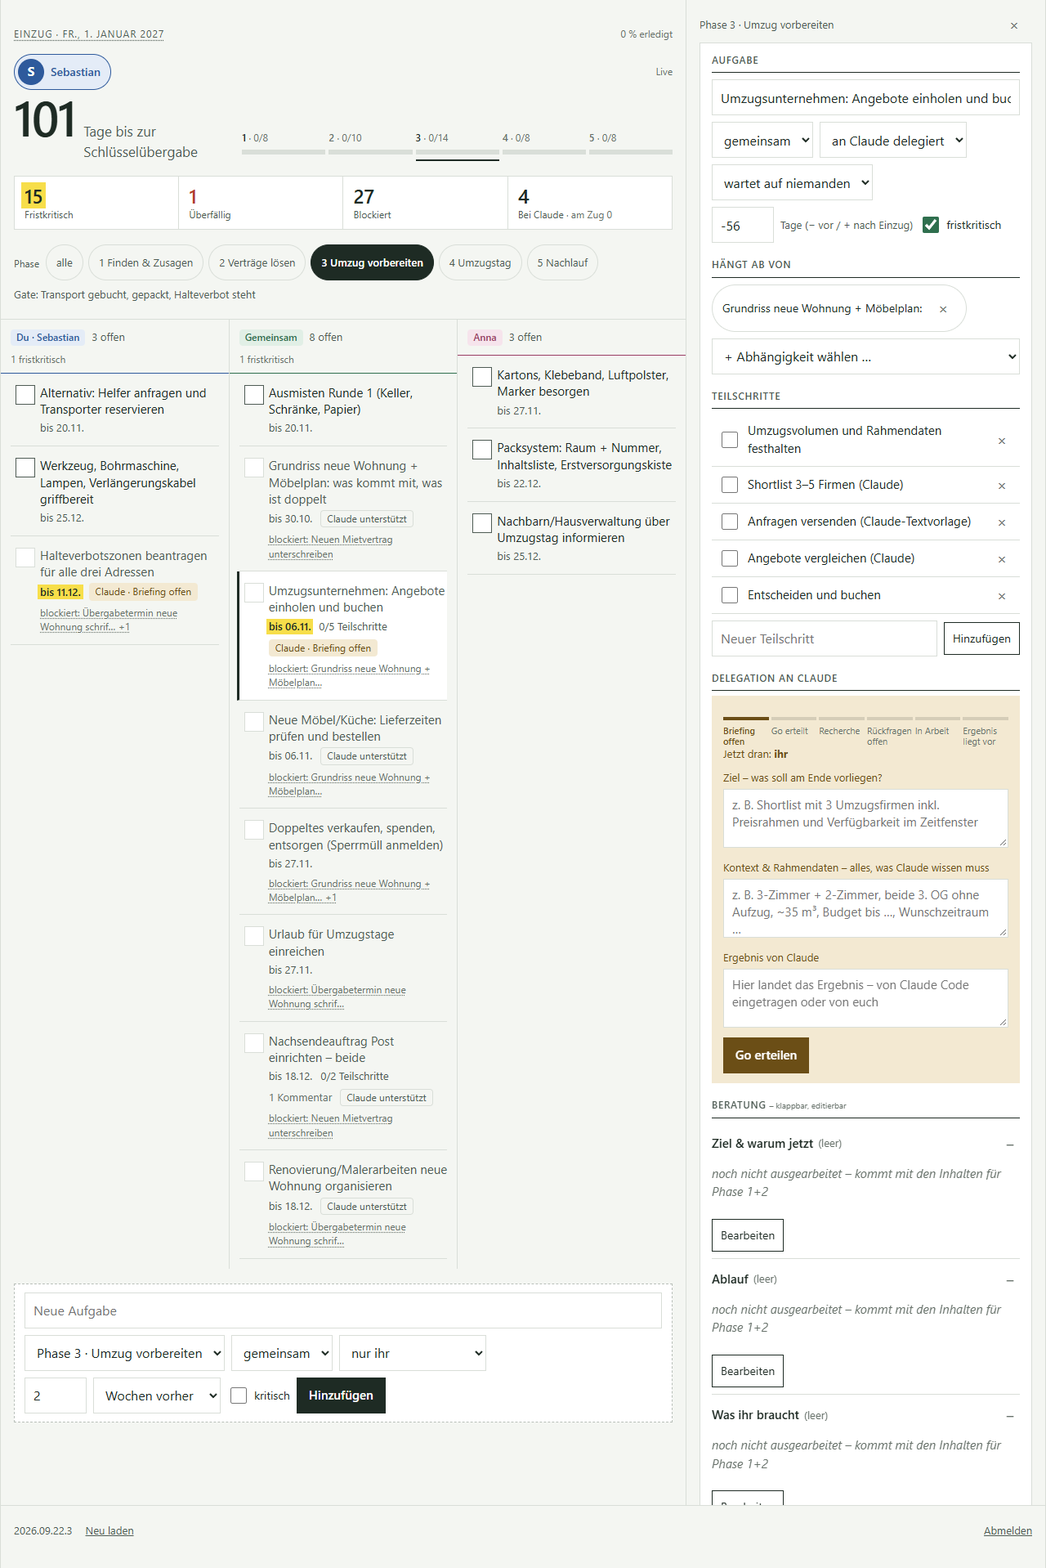
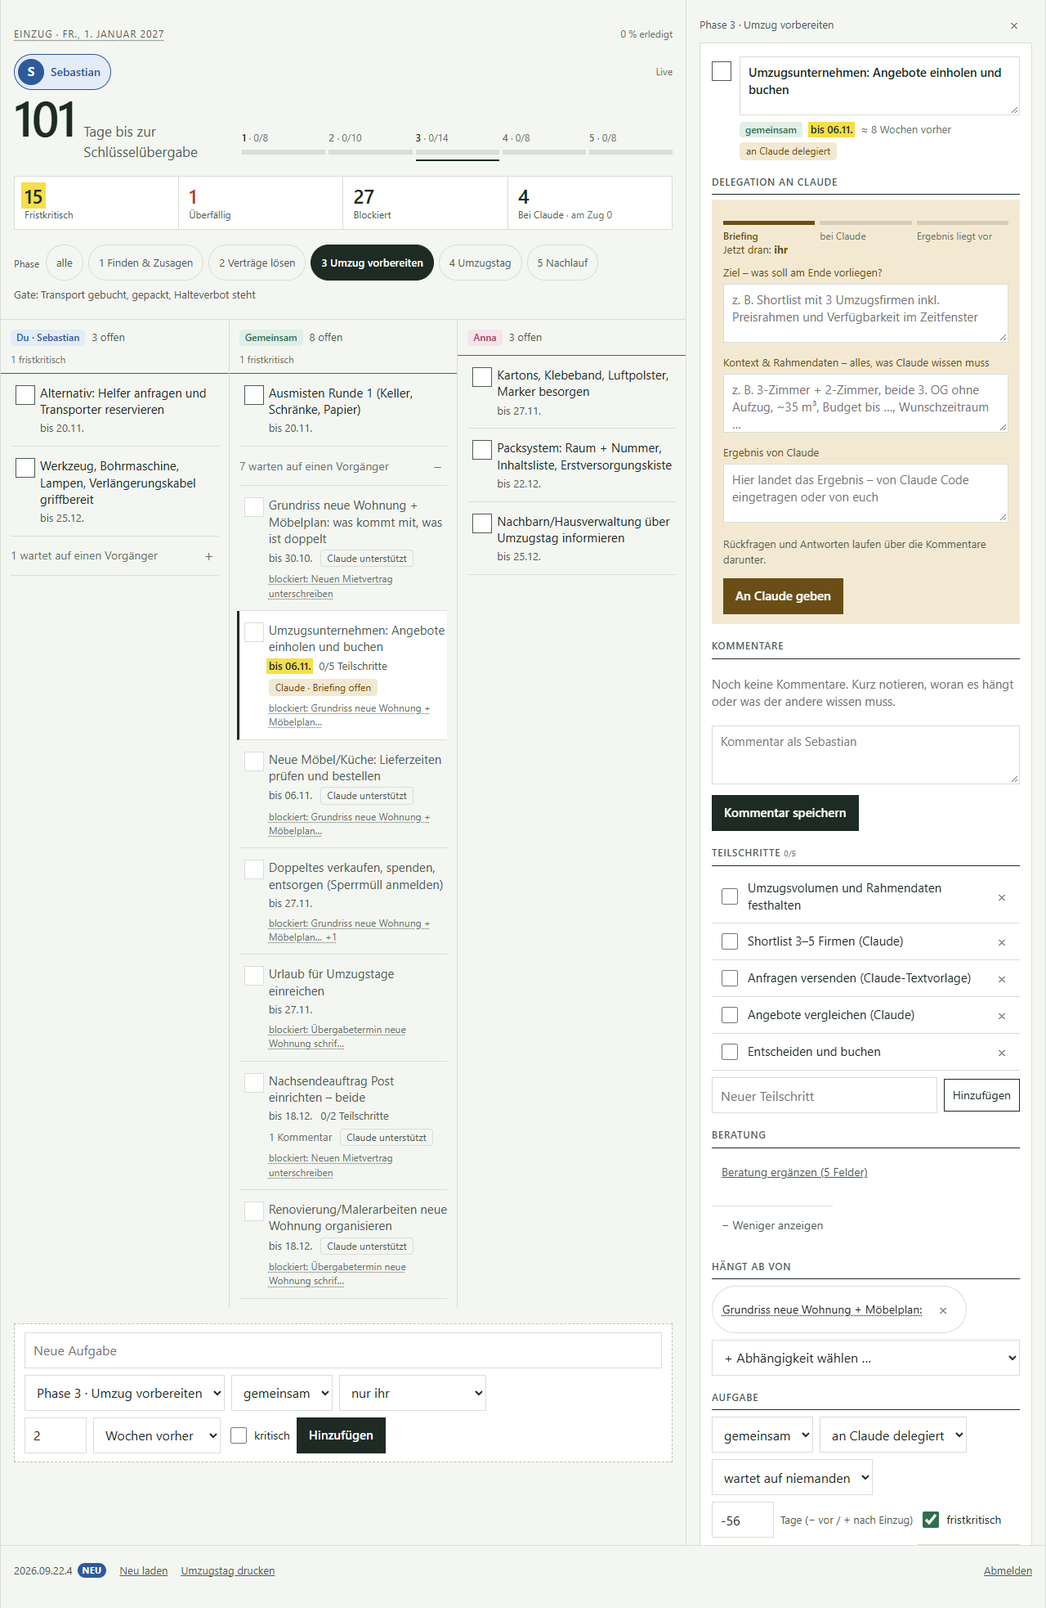
docs: 009 deviation list, screenshots and status

diff --git a/docs/changes/009-abweichungen.md b/docs/changes/009-abweichungen.md
@@ -1,78 +1,100 @@
-# Änderungsauftrag 009 – Abweichungsliste (Stand nach Commit 2)
+# Änderungsauftrag 009 – Abweichungsliste
 
 Stand: 22.09.2026 · Branch `feature/personen-layout` · Quelle: `docs/changes/009-personen-layout.md`, Design `design/handoff/2026-09-22-b/` (nur Variante B, „1b Personen zuerst")
-Screenshots (Vollseite): `docs/changes/009-screenshots/` – `ich-380`, `ich-1280`, `besuch-380`, `besuch-1280`, `akte-leicht-380`, `akte-leicht-1280`, `akte-voll-380`, `akte-voll-1280`
+Screenshots (Vollseite): `docs/changes/009-screenshots/` – `ich-380/1280`, `besuch-380/1280`, `akte-leicht-380/1280`, `akte-voll-380/1280`, `bei-claude-1280`, `umzugstag-druck-380`, `offline-380`
 
-Commit 1 = Layout, Commit 2 = „Seit deinem letzten Besuch". **Noch nicht gebaut:** Akte in zwei Gewichtsklassen (Auftrag Punkt 3) und Delegation auf drei Zustände (Punkt 4) folgen in Commit 3, Umzugstag-Modus (Punkt 5) in Commit 4. Die beiden Akte-Screenshots zeigen deshalb den **Ist-Stand vor** dem Umbau – sie sind der Vergleichspunkt, nicht das Ergebnis.
+Vier Commits: (1) Layout, (2) „Seit deinem letzten Besuch", (3) Akte in zwei Gewichtsklassen + Delegation auf drei Zustände, (4) Umzugstag-Modus. Dazwischen der Review-Stopp; die dort getroffenen Entscheidungen stehen in Abschnitt 0.
 
-**Das musst du vor dem Weiterbauen tun:** `supabase/migrations/006_a009_letzter_besuch.sql` im SQL-Editor einspielen. Bis dahin läuft die App vollständig weiter, nur ohne den Besuchsblock und ohne Punkte (siehe 3.1).
+**Zwei Migrationen, beide im SQL-Editor auszuführen:**
+
+| Datei | Was | Status |
+|---|---|---|
+| `supabase/migrations/006_a009_letzter_besuch.sql` | `allowlist.last_visit_at`, `allowlist.seen_comments`, `tasks.done_by` + Spaltenrechte | **eingespielt** (22.09.) |
+| `supabase/migrations/007_a009_delegation.sql` | `go/recherche/rueckfragen/arbeit` → `claude`, neuer Check auf drei Werte | **offen – vor dem Merge einspielen** |
+
+Ohne 007 läuft die App weiter (alte Zustände werden als „bei Claude" gelesen), aber der Knopf „An Claude geben" schlägt fehl: der alte Check-Constraint kennt den Wert `claude` nicht. Geprüft.
 
 ---
+
+## 0. Entscheidungen aus dem Review (nach Commit 2) – so gebaut
+
+| Entscheidung | Umsetzung |
+|---|---|
+| „Ich" zeigt nur nicht blockierte; darunter eine eingeklappte Zeile „N warten auf einen Vorgänger", aufklappbar, nach Fälligkeit, mit Grund-Link | Gilt für **jede** Spalte, nicht nur „Ich" (auch am Desktop) – blockierte Aufgaben gehören zur Person, die sie später macht. Die Zeile klappt automatisch auf, wenn ein Filter aktiv ist oder ein Link in sie hinein führt. Der Zähler im Spaltenkopf („27 offen") zählt beide Listen |
+| `done_by` freigegeben | `tasks.done_by` wird beim Abhaken gesetzt (auch beim automatischen Abhaken über die Teilschritte und bei „Ergebnis übernommen") |
+| Block nur mit Inhalt, dann über den Kacheln | So gebaut: der Block steht zwischen Countdown und Kacheln und verschwindet ganz, wenn nichts neu ist |
+| „Gemeinsam" als eigener Bereich am Handy, offen, zwischen „Wartet auf mich" und „Bei Anna" | So gebaut. „Ich" enthält damit nur noch eigene Aufgaben – am Handy sind das 11 statt 38 Zeilen, davon 4 sofort machbar |
+| Phasen-Chips scrollen seitlich | Bleibt so (ab 600 px brechen sie um) |
 
 ## 1. Abweichungen vom Design-Handoff
 
 | Design (Variante 1b) | Gebaut | Grund |
 |---|---|---|
-| Bei 380 px dieselben drei Personen-Spalten wie am Desktop (Du · Sebastian / Gemeinsam / Anna) | Am Handy drei Bereiche untereinander: **Ich** (eigene **+ gemeinsame**), **Wartet auf mich**, **Bei Anna** (eingeklappt, Zähler im Kopf) | Auftrag Punkt 1 schreibt genau diese Reihenfolge vor. Die Handoff-Fassung bräuchte am Handy drei Überschriften für dieselbe Liste |
-| Kasten „Zwischen euch" mit drei Signalen (`2 Anna wartet auf dich`, `3 neue Kommentare seit gestern`, `1 du wartest auf Anna`), **keine** Kennzahl-Kacheln | Kasten „Seit deinem letzten Besuch" mit den vier Teilen aus dem Auftrag (Kommentare je Autor, erledigte Aufgaben, wartet auf dich) **und** darunter die vier Kacheln (Fristkritisch, Überfällig, Blockiert, Bei Claude) | Auftrag Punkt 1 nennt die vier Kacheln, Punkt 2 den Block. Beides ist drin; der Kopf ist dadurch zwei Zeilen höher als im Entwurf. **Offene Frage 4.1** |
-| „du wartest auf Anna" als eigenes Signal | Nicht im Block | Der Auftrag zählt vier Teile auf, dieser ist nicht dabei. **Offene Frage 4.1** |
-| Phasen-Chips am Handy gruppiert: `alle · P1–P2 · P3` | `alle` + alle fünf Phasen, am Handy seitlich scrollbar, ab 600 px umbrechend | Eine Gruppierung „P1–P2" gibt es im Datenmodell nicht; sie wäre eine zweite, unsichtbare Phasenlogik |
-| Spaltenkopf: `11 offen · 3 diese Woche` und `alle 11 zeigen →` | Kopf: Owner-Chip, `n offen`, dazu **eine** abgeleitete Notiz in dieser Reihenfolge: `n überfällig` → `n fristkritisch` → `n blockiert`; `alle n zeigen →` ab der 9. Zeile | „diese Woche" ist mit dem Personen-Layout kein Filter mehr. Die Notiz sagt, warum man in diese Spalte schauen sollte |
-| Zeilen ohne Owner-Chip | Chip am Handy sichtbar (die Spalte „Ich" mischt eigene und gemeinsame), ab 900 px ausgeblendet | Ohne Chip wäre am Handy nicht erkennbar, was gemeinsam ist |
-| Drei Spalten ab 900 px | Drei Spalten erst ab **1180 px**; zwischen 900 und 1179 px stehen dieselben drei Gruppen untereinander, das Panel bleibt rechts | Gemessen: bei 900 px neben dem 440-px-Panel bleiben 152 px je Spalte, der Titel bekommt 92 px. Das ist unlesbar |
-| Offline-Blatt (Phase 4 ohne Netz) | Kommt in Commit 4 | – |
+| Bei 380 px dieselben drei Personen-Spalten wie am Desktop | Am Handy vier Bereiche untereinander: Ich · Wartet auf mich · Gemeinsam · Bei Anna (eingeklappt) | Auftrag Punkt 1 plus Review-Entscheidung |
+| Kasten „Zwischen euch" mit drei Signalen, **keine** Kennzahl-Kacheln | Kasten „Seit deinem letzten Besuch" **und** vier Kacheln | Auftrag Punkt 1 nennt die Kacheln, Punkt 2 den Block |
+| Signal „du wartest auf Anna" | Nicht im Block | Der Auftrag zählt vier Teile auf, dieser ist nicht dabei |
+| Phasen-Chips am Handy gruppiert (`alle · P1–P2 · P3`) | `alle` + fünf Phasen, seitlich scrollbar | Eine Gruppierung „P1–P2" gibt es im Datenmodell nicht |
+| Spaltenkopf `11 offen · 3 diese Woche`, Button `alle 11 zeigen →` | Kopf: Owner-Chip, `n offen`, eine abgeleitete Notiz (`n überfällig` → `n fristkritisch`); Button `weitere n zeigen →` ab der 9. Zeile | „diese Woche" ist mit dem Personen-Layout kein Filter mehr; „weitere n" ist eindeutig, weil die blockierten Aufgaben separat stehen |
+| Zeilen ohne Owner-Chip | Chip am Handy sichtbar, ab 900 px ausgeblendet | Am Handy mischen „Wartet auf mich" und „Gemeinsam" die Owner |
+| Drei Spalten ab 900 px | Drei Spalten ab **1180 px**; zwischen 900 und 1179 px stehen die Gruppen untereinander, das Panel bleibt rechts | Gemessen: bei 900 px neben dem 440-px-Panel bleiben 152 px je Spalte, der Titel bekommt 92 px |
+| Akte: Titel als feste Überschrift, „← Liste" als eigener Screen am Handy | Titel als Überschrift, die editierbar bleibt (Textfeld ohne Rahmen, umbrechend); die Akte klappt wie seit 006 unter der Zeile auf | Der Titel war seit 002 editierbar, das soll nicht verloren gehen; ein eigener Handy-Screen wäre ein zweiter Navigationsumbau |
+| Akte voll: Kommentare direkt unter dem Briefing | Übernommen, aber nur bei Claude-Aufgaben; sonst stehen die Kommentare wie bisher unten | Bei der Delegation **sind** die Kommentare der Dialog, sonst nicht |
+| Offline-Blatt als eigene Ansicht mit Tagesgruppen | Druckblatt nach Personen gruppiert, zusätzlich Zählerstände, Schlüssel, Notfallkontakte | Auftrag Punkt 5 nennt genau diese Felder; die Tagesgruppen des Entwurfs brauchen ein Datum je Aufgabe, das es nicht gibt |
 | Schrift Instrument Sans per Google Fonts | Systemschrift-Stack | Kein externer Request (wie seit 002) |
-| Rote Pille „wartet auf dich", Kommentare/Punkte in Autorenfarbe, Zahl + Label je Signal, Spaltenkopf mit farbiger Unterlinie | Übernommen | – |
+| Rote Pille „wartet auf dich", Punkte in Autorenfarbe, Zahl + Label je Signal, farbige Unterlinie am Spaltenkopf, dreiteiliger Zustandsbalken | Übernommen | – |
 
 ## 2. Auslegungen des Auftrags
 
 | Stelle im Auftrag | Gebaut | Grund |
 |---|---|---|
-| „Ich (eigene + gemeinsame Aufgaben, **nicht blockiert**, nach Fälligkeit)" | Blockierte Aufgaben bleiben in der Spalte, sortieren aber **ans Ende** und tragen den Grund als Link | 27 der 48 Aufgaben sind aktuell blockiert (fast alles hängt am Mietvertrag). Als Filter gelesen wären am Handy mehr als die Hälfte der eigenen Aufgaben unsichtbar. **Offene Frage 4.2** |
-| „Wartet auf mich" als eigener Bereich | Am Handy ja; ab 900 px nicht – dort steht die rote Markierung in der Zeile, die Aufgabe bleibt in der Spalte ihrer Person | Der Auftrag gibt für Desktop genau drei Spalten vor |
-| Erledigte Aufgaben | Spalten zeigen offene Aufgaben; am Fuß jeder Spalte `n erledigt zeigen` | Sonst wäre ein versehentlich gesetztes Häkchen nicht mehr rückgängig zu machen – es gibt keine Phasenliste mehr, in der die Aufgabe noch stünde |
-| Kennzahl = Filter | Alle vier Kacheln und alle Teile des Besuchsblocks setzen genau einen Filter (`aria-pressed`), erneutes Tippen hebt ihn auf | wie 002 |
-| Startzustand | **Kein** Filter beim Öffnen (vorher „Diese Woche"), Phasen-Chip „alle"; der zuletzt gewählte Chip wird pro Gerät gemerkt | Die Spalte „Ich" beantwortet „was ist meins" jetzt ohne Filter |
-| Ein Filter ist aktiv und „Bei Anna" ist eingeklappt | Der eingeklappte Bereich klappt auf, solange ein Filter aktiv ist | Sonst wären Treffer in Annas Spalte unsichtbar |
-| `allowlist.seen_comments jsonb` oder Tabelle `comment_reads` | `seen_comments jsonb` (Array von Kommentar-IDs) | Eine Zeile mehr pro Person statt einer wachsenden Tabelle. Beim Schreiben werden nur IDs behalten, die neuer als `last_visit_at` sind – die Liste kann nicht unbegrenzt wachsen |
-| „`last_visit_at` gesetzt beim Verlassen **und beim Login**" | Beim Verlassen (`visibilitychange` → hidden, `pagehide`) und beim Login **nur, wenn der Wert noch leer ist** | Schreibt der Login immer, sieht das zweite Gerät derselben Person eine Minute später einen leeren Block – das widerspricht dem Akzeptanzkriterium |
-| Block „beim Öffnen" | Der Block bleibt die ganze Sitzung über stehen (der gemerkte Zeitpunkt wird im Browser eingefroren), auch wenn die App zwischendurch im Hintergrund war | Sonst verschwindet er beim App-Wechsel unter den Händen des Lesers. Beim nächsten Öffnen zählt er ab dem Verlassen |
-| „Aufgaben erledigt: `tasks.done` und `updated_at > last_visit_at`, **nicht von der eigenen Person**" | Neue Spalte `tasks.done_by` (`S`/`A`), von der App beim Abhaken gesetzt | Ohne sie steht nirgends, wer abgehakt hat. Aufgaben, die vor der Migration abgehakt wurden, haben `done_by = null` und zählen nie mit – **Datenmodell-Erweiterung, bitte bestätigen (4.3)** |
-| Jeder Teil des Blocks filtert | Der Block **zählt Kommentare**, der Filter **zeigt Aufgaben** – drei Kommentare können auf zwei Aufgaben liegen | Die Formulierung im Auftrag („3 Kommentare von Anna") ist die Kommentarzahl |
-| Punkt verschwindet beim Öffnen | Der Punkt (Gelesen-Stand) nutzt `seen_comments`, Block und Filter nicht: sie zeigen alles seit dem letzten Besuch | Sonst schrumpfen die Zahlen im Kopf, während man liest |
+| „Wartet auf mich" als eigener Bereich | Am Handy ja; ab 900 px nicht – dort markiert die rote Pille die Zeile in der Spalte ihrer Person | Der Auftrag gibt für den Desktop genau drei Spalten vor |
+| Erledigte Aufgaben | Spalten zeigen offene Aufgaben; am Fuß jeder Spalte `n erledigt zeigen` | Sonst wäre ein versehentliches Häkchen nicht mehr rückgängig zu machen |
+| Startzustand | Kein Filter beim Öffnen (vorher „Diese Woche"), Phasen-Chip „alle", pro Gerät gemerkt | Die Spalte „Ich" beantwortet „was ist meins" jetzt ohne Filter |
+| `allowlist.seen_comments jsonb` **oder** Tabelle `comment_reads` | `seen_comments jsonb` (Array von Kommentar-IDs) | Eine Spalte statt einer wachsenden Tabelle; beim Schreiben bleiben nur IDs übrig, die neuer als `last_visit_at` sind – die Liste kann nicht unbegrenzt wachsen |
+| „`last_visit_at` gesetzt beim Verlassen **und beim Login**" | Beim Verlassen (`visibilitychange` → hidden, `pagehide`, höchstens einmal pro Minute) und beim Login **nur, wenn der Wert noch leer ist** | Schriebe der Login immer, sähe das zweite Gerät derselben Person eine Minute später einen leeren Block |
+| Block „beim Öffnen" | Der gemerkte Zeitpunkt wird für die Sitzung eingefroren: der Block bleibt stehen, auch wenn die App zwischendurch im Hintergrund war | Sonst verschwindet er beim App-Wechsel unter den Händen des Lesers |
+| „Aufgaben erledigt … nicht von der eigenen Person" | Neue Spalte `tasks.done_by`; Aufgaben, die vorher abgehakt wurden, haben `null` und zählen nie mit | Ohne sie steht nirgends, wer abgehakt hat (im Review freigegeben) |
+| Jeder Teil des Blocks filtert | Der Block **zählt Kommentare**, der Filter **zeigt Aufgaben**; Block und Filter ignorieren „schon geöffnet", nur der Punkt an der Zeile nutzt es | Sonst schrumpfen die Zahlen im Kopf, während man liest |
+| „Voll automatisch, wenn … oder Kostenzeilen vorhanden (ab 007)" | Drei der vier Auslöser gebaut: `type = claude`, mindestens ein Beratungsfeld gefüllt, Abhängigkeiten vorhanden | `costs` hat noch keine UI; der vierte Auslöser kommt mit 007 |
+| „Der Zustand wird pro Aufgabe gemerkt" | Im Browser, für die Dauer der Sitzung (nicht in der Datenbank) | Ein Anzeigezustand, der sich nicht zwischen Geräten abgleichen muss |
+| „Ansicht ‚Bei Claude' gruppiert nach den drei Zuständen" | Der Filter „Bei Claude" ersetzt die Personen-Spalten durch drei Spalten: Briefing · bei Claude · Ergebnis liegt vor | Einzige Stelle, an der nicht nach Personen gruppiert wird |
+| Buttons „An Claude geben" / „Ergebnis übernommen" | Gebaut, dazu bleibt „Zurück auf Briefing" (aus dem Design) | Ohne ihn gäbe es keinen Weg zurück, wenn das Briefing nachgebessert werden muss |
+| „Service Worker cacht zusätzlich den letzten geladenen Datenstand (JSON im Cache)" | Der Datenstand liegt in `localStorage` (36 kB bei 48 Aufgaben), nicht im Cache-Storage | **Bewusste Abweichung:** `Cache.put` aus der Seite heraus war im Testaufbau (headless Chrome) nicht nutzbar – jeder Schreibversuch endet mit „Entry already exists", auch mit frischem Cache-Namen. Ein Offline-Modus, den ich nicht prüfen kann, ist am Umzugstag wertlos. `localStorage` ist synchron, geprüft und braucht den Service Worker nicht; dieser cacht weiter die App selbst |
+| „Häkchen deaktiviert mit Hinweis" | Häkchen und Teilschritt-Häkchen sind `disabled`; jeder andere Schreibversuch (Kommentar, Feld, Löschen, Delegation) meldet „Ohne Netz kannst du nur lesen" | Ein `disabled` Häkchen kann keinen Hinweis auslösen, deshalb beides |
 
 ## 3. Design-Lücken (selbst entschieden)
 
 | Zustand | Lösung |
 |---|---|
-| **3.1 Migration noch nicht eingespielt** | `loadPersonRow()` liest die Zeile mit `select('*')`; fehlen die Spalten, bleibt `lastVisitAt` unbekannt: kein Block, keine Punkte, kein `done_by` beim Abhaken. Getestet: Abhaken und Zurücknehmen funktionieren ohne Migration fehlerfrei |
-| **Person war noch nie eingeloggt** (`last_visit_at` null) | Kein Block, keine Punkte – sonst wäre beim ersten Login alles „neu". Der erste Login setzt den Startpunkt, ab dem zweiten zählt der Block |
-| **Sehr viele Punkte** | Ein Punkt je Autor und Zeile (höchstens drei), nicht je Kommentar. Beim Öffnen der Aufgabe verschwinden genau deren Punkte, die anderen bleiben |
-| **Zweites Gerät derselben Person** | Gelesen-Stand und Besuchszeit liegen in der Datenbank, nicht im Gerät. `allowlist` ist bewusst **nicht** in der Realtime-Übertragung: das zweite Gerät zieht beim nächsten Laden nach (wie der Changelog-Stand seit 005b) |
-| **Kommentar auf gelöschter Aufgabe** | Zählt im Block nicht mit (es gibt eine solche Zeile aus dem Smoke-Test) |
-| **Spalte ohne Inhalt** | Nur der Kopf bleibt stehen („Wartet auf mich · 0 offen"), kein leerer Kasten |
-| **Lange Spalte** | Acht Zeilen, dann `alle n zeigen →`. Eine per Link geöffnete Aufgabe wird immer aufgedeckt, auch wenn sie an Position 20 steht |
-| **`#task=<id>`-Link** | Wie seit 006: Phase wird gesetzt, ein Filter, der die Aufgabe verstecken würde, fällt weg – zusätzlich klappt jetzt der Bereich auf, in dem sie steht |
+| **Migration 006 nicht eingespielt** | `loadPersonRow()` liest die Zeile mit `select('*')`; fehlen die Spalten, bleibt `lastVisitAt` unbekannt: kein Block, keine Punkte, kein `done_by`. Abhaken funktioniert unverändert (geprüft) |
+| **Person war noch nie eingeloggt** (`last_visit_at` null) | Kein Block, keine Punkte – sonst wäre beim ersten Login alles „neu". Der erste Login setzt den Startpunkt |
+| **Sehr viele Punkte** | Ein Punkt je Autor und Zeile (höchstens drei), nicht je Kommentar |
+| **Zweites Gerät derselben Person** | Gelesen-Stand und Besuchszeit liegen in der Datenbank. `allowlist` ist bewusst **nicht** in der Realtime-Übertragung: das zweite Gerät zieht beim nächsten Laden nach (wie der Changelog-Stand seit 005b) |
+| **Kommentar auf gelöschter Aufgabe** | Zählt im Block nicht mit |
+| **Spalte ohne Inhalt** | Nur der Kopf bleibt stehen („Wartet auf mich · 0 offen") |
+| **Lange Spalte** | Acht Zeilen, dann `weitere n zeigen →`. Eine per Link geöffnete Aufgabe wird immer aufgedeckt, auch aus der eingeklappten Vorgänger-Liste heraus |
+| **Fenster über die 900-px-Grenze ziehen, während ein Feld getippt wird** | Das Feld gibt den Fokus ab (und speichert dabei), danach wird neu gezeichnet. Vorher blieb das alte Layout stehen – beim Umbau gefunden und behoben |
 | **Tablet 600–899 px** | Eine Spalte (760 px) mit der Handy-Gruppierung, Kacheln mit Unterzeilen, Chips ohne Scrollen |
-| **Kachel-Unterzeilen** (issues.md #3) | Ab 600 px sichtbar statt ausgeblendet – auf dem größeren Bildschirm steht jetzt mehr, nicht weniger |
+| **Kachel-Unterzeilen** (issues.md #3) | Ab 600 px sichtbar statt ausgeblendet |
+| **Akte: sehr langer Titel** | Das Titelfeld bricht um (Textfeld mit `field-sizing: content`, Zeilenzahl aus der Titellänge als Rückfall für iOS) |
+| **Drucken ohne geöffnetes Blatt** | `body.printing` schaltet die Druckregeln; wer die App sonst druckt, bekommt wie bisher die Seite |
+| **Notfallkontakte** | `settings.umzugstag_kontakte`, ein Textfeld im Druckblatt – gilt für beide, steht auf jedem Ausdruck |
 | **Backup** | `allowlist` bleibt im Backup auf `person` + `last_seen_version`; `last_visit_at`/`seen_comments` sind Bedienzustand, kein Inhalt. `tasks.done_by` ist automatisch dabei |
 
-## 4. Entscheidungen, die ich von dir brauche
-
-1. **Besuchsblock und Kacheln** stehen jetzt beide im Kopf (zusammen ~180 px am Handy). Alternative: die Kachel „Bei Claude" in den Block ziehen oder den Block auf zwei Teile kürzen. Oder das Signal „du wartest auf Anna" aus dem Handoff ergänzen – dann sind es bis zu fünf Teile.
-2. **Blockierte Aufgaben in „Ich"**: bleiben (am Ende, mit Grund) oder doch raus, wie wörtlich im Auftrag?
-3. **`tasks.done_by`**: neue Spalte, nur für „n Aufgaben erledigt". Einverstanden? Ohne sie fällt dieser Teil des Blocks ersatzlos weg.
-4. **Phasen-Chips am Handy scrollen seitlich.** Alternative: Umbruch in zwei Zeilen (kostet 50 px) oder nur Nummern ohne Namen.
-5. Spalte „Ich" am Handy enthält 38 der 48 Aufgaben, weil 27 gemeinsam sind. Soll „Gemeinsam" am Handy ein eigener vierter Bereich werden (dann: Ich 11 · Gemeinsam 27 · Wartet auf mich · Bei Anna)?
-
-## 5. Bewusst nicht umgesetzt
+## 4. Bewusst nicht umgesetzt
 
 - Push-Benachrichtigungen (Auftrag: erst, wenn der Block nachweislich nicht reicht)
-- Offline-Schreiben (seit dem Briefing außerhalb des Scopes; Commit 4 bringt nur das Lesen)
+- Offline-Schreiben und Sync (seit dem Briefing außerhalb des Scopes)
 - `costs`/`recurring` bleiben unberührt (Finanzmodul ist 007)
+- Der vierte Auslöser für die volle Akte (Kostenzeilen) – kommt mit 007
 
-## 6. Prüfungen, die gelaufen sind
+## 5. Geprüft
 
-- Migration `006_a009_letzter_besuch.sql` in einer Transaktion gegen die Live-Datenbank geprüft und zurückgerollt: Spalten, Check-Constraint und Spaltenrechte kommen wie erwartet, danach war die Datenbank unverändert (`allowlist_new_cols = 0`)
-- Headless Chrome, eingeloggt als Sebastian, echte Daten: Layout bei 380/768/900/1024/1280 px, Filter, Phasen-Chip, „blockiert:"-Link (öffnet die blockierende Aufgabe, hebt den Filter auf, setzt `#task=`), Ein-/Ausklappen, `n erledigt zeigen`, Abhaken und Zurücknehmen, Tastaturfokus über den Neuaufbau hinweg. Keine Konsolenfehler
+- Migration 006 vor der Übergabe in einer Transaktion gegen die Live-Datenbank geprüft und zurückgerollt; danach war die Datenbank unverändert
+- Headless Chrome, eingeloggt als Sebastian, echte Daten, 380 / 768 / 900 / 1024 / 1280 px: Spalten, Filter, Phasen-Chips, „blockiert:"-Link, Ein- und Ausklappen, `weitere n zeigen`, `n erledigt zeigen`, Abhaken und Zurücknehmen (mit und ohne Migration), Tastaturfokus über den Neuaufbau hinweg, Escape-Reihenfolge (Changelog → Druckblatt → Akte), Changelog öffnet sich automatisch bei neuer Version. Keine Konsolenfehler
 - Besuchsblock mit simuliertem Vorbesuch (nur im Browser, nichts geschrieben): Block, Punkte, alle drei Filter, Punkt verschwindet beim Öffnen der Aufgabe
+- Akte leicht/voll bei 380 und 1280, „Beratung ergänzen", „Alle Felder anzeigen", Titel bearbeiten und speichern
+- Offline: Statuszeile „Offline – Stand von 15:18", Häkchen deaktiviert, Kommentar blockiert mit Hinweis, Aufgaben weiter lesbar, Druckblatt funktioniert ohne Netz („Stand … · ohne Netz"); zurück im Netz wieder „Live" ohne Reload, Schreiben funktioniert sofort wieder
+- Druckblatt in der Druckvorschau: Aufgaben nach Person mit Kästchen, Zählerstände, Schlüssel, Notfallkontakte als Text
+
+**Nicht prüfbar im Testaufbau, bitte auf dem Gerät gegenlesen:** App vom Home-Bildschirm im Flugmodus öffnen. Headless Chrome hat in diesem Aufbau weder Cache-Storage-Schreibzugriff noch einen zuverlässig aktiven Service Worker. Die Shell-Logik dafür ist seit Auftrag 003 unverändert; neu ist nur, dass die Daten aus `localStorage` kommen. Drei Schritte: App öffnen (lädt), Flugmodus an, App neu öffnen – erwartet: Liste sichtbar, Statuszeile „Offline – Stand von …".

diff --git a/docs/changes/009-personen-layout.md b/docs/changes/009-personen-layout.md
@@ -1,6 +1,7 @@
 # Änderungsauftrag 009 – Konzepterweiterung: Personen-Layout
 
-Stand: 22.09.2026 · Status: offen · Branch: `feature/personen-layout` · Modell: Opus, Effort extra
+Stand: 22.09.2026 · Status: umgesetzt, PR offen (vier Commits, Review-Stopp nach Commit 2 erledigt) · Branch: `feature/personen-layout` · Modell: Opus, Effort extra
+Abweichungen und Prüfungen: `docs/changes/009-abweichungen.md`. Migrationen: `006_a009_letzter_besuch.sql` (eingespielt), `007_a009_delegation.sql` (vor dem Merge einspielen).
 Betrifft: Dashboard, Akte, Delegation, Service Worker, `allowlist`, `app.css`; **nicht** `costs`/`recurring` (007)
 Quelle: `design/handoff/2026-09-22-b/` – Variante B "Personen zuerst" aus dem Design Review (011). Es gilt nur diese Variante, auch wenn der Export mehrere enthält. Design-Spezifikation, keine Codebasis: Vanilla JS, Datenschicht bleibt, Tokens aus dem Snapshot (`--ink-3 = #68726b`).
 
